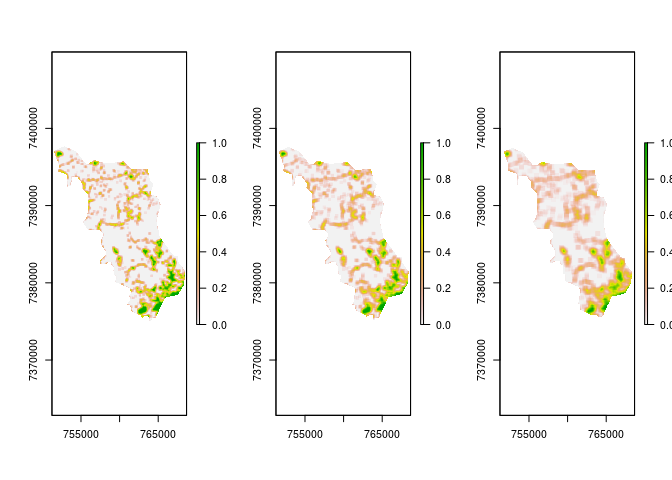
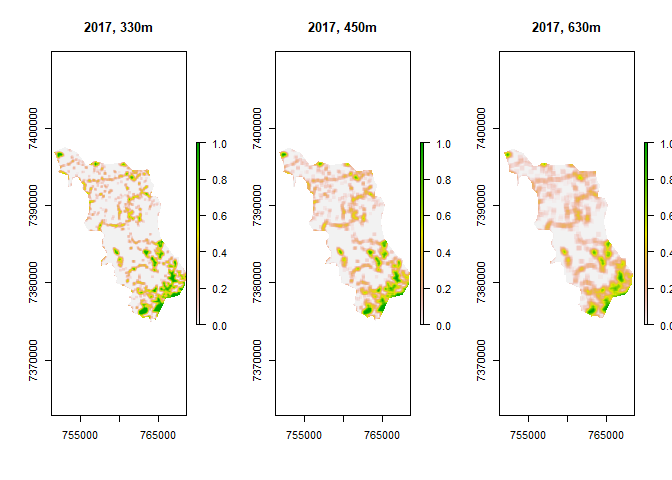
boas praticas

diff --git a/MW_FF_CMA.md b/MW_FF_CMA.md
@@ -33,16 +33,14 @@ require(rgdal)
 ```
 
 ```
-## rgdal: version: 1.5-8, (SVN revision 990)
-## Geospatial Data Abstraction Library extensions to R successfully loaded
-## Loaded GDAL runtime: GDAL 2.2.2, released 2017/09/15
-## Path to GDAL shared files: /usr/share/gdal/2.2
-## GDAL binary built with GEOS: TRUE 
-## Loaded PROJ runtime: Rel. 4.9.2, 08 September 2015, [PJ_VERSION: 492]
-## Path to PROJ shared files: (autodetected)
-## Linking to sp version:1.4-2
-## To mute warnings of possible GDAL/OSR exportToProj4() degradation,
-## use options("rgdal_show_exportToProj4_warnings"="none") before loading rgdal.
+## rgdal: version: 1.4-8, (SVN revision 845)
+##  Geospatial Data Abstraction Library extensions to R successfully loaded
+##  Loaded GDAL runtime: GDAL 2.2.3, released 2017/11/20
+##  Path to GDAL shared files: C:/Users/acmar/Documents/R/win-library/3.6/rgdal/gdal
+##  GDAL binary built with GEOS: TRUE 
+##  Loaded PROJ.4 runtime: Rel. 4.9.3, 15 August 2016, [PJ_VERSION: 493]
+##  Path to PROJ.4 shared files: C:/Users/acmar/Documents/R/win-library/3.6/rgdal/proj
+##  Linking to sp version: 1.3-2
 ```
 
 ```r
@@ -119,23 +117,23 @@ r07[r07 < 3] <- 0
 r07[r07 > 3] <- 0
 r07[r07 == 3] <- 1
 
-m<-matrix(1, nrow=11, ncol=11)
-r07.focal<-focal(r07, m, fun=mean)
+m11<-matrix(1, nrow=11, ncol=11)
+r07.m11.focal<-focal(r07, m11, fun=mean)
 
-m1<-matrix(1, nrow=15, ncol=15)
-r07m1.focal<-focal(r07, m1, fun=mean)
+m15<-matrix(1, nrow=15, ncol=15)
+r07.m15.focal<-focal(r07, m15, fun=mean)
 
-m2<-matrix(1, nrow=21, ncol=21)
-r07m2.focal<-focal(r07, m2, fun=mean)
+m21<-matrix(1, nrow=21, ncol=21)
+r07.m21.focal<-focal(r07, m21, fun=mean)
 ```
 
 Plota o MW para 2007
 
 ```r
 par(mfrow=c(1,3))
-plot(r07.focal)
-plot(r07m1.focal)
-plot(r07m2.focal)
+plot(r07.m11.focal, main="2007, 330m")
+plot(r07.m15.focal, main="2007, 450m")
+plot(r07.m21.focal, main="2007, 630m")
 ```
 
 <img src="MW_FF_CMA_files/figure-html/unnamed-chunk-3-1.png" style="display: block; margin: auto;" />
@@ -153,23 +151,23 @@ r17[r17 < 3] <- 0
 r17[r17 > 3] <- 0
 r17[r17 == 3] <- 1
 
-m<-matrix(1, nrow=11, ncol=11)
-r17.focal<-focal(r17, m, fun=mean)
+m11<-matrix(1, nrow=11, ncol=11)
+r17.m11.focal<-focal(r17, m11, fun=mean)
 
-m1<-matrix(1, nrow=15, ncol=15)
-r17m1.focal<-focal(r17, m1, fun=mean)
+m15<-matrix(1, nrow=15, ncol=15)
+r17.m15.focal<-focal(r17, m15, fun=mean)
 
-m2<-matrix(1, nrow=21, ncol=21)
-r17m2.focal<-focal(r17, m2, fun=mean)
+m21<-matrix(1, nrow=21, ncol=21)
+r17.m21.focal<-focal(r17, m21, fun=mean)
 ```
 
 Plota o MW para 2017
 
 ```r
 par(mfrow=c(1,3))
-plot(r17.focal)
-plot(r17m1.focal)
-plot(r17m2.focal)
+plot(r17.m11.focal, main="2017, 330m")
+plot(r17.m15.focal, main="2017, 450m")
+plot(r17.m21.focal, main="2017, 630m")
 ```
 
 <img src="MW_FF_CMA_files/figure-html/unnamed-chunk-5-1.png" style="display: block; margin: auto;" />
@@ -181,9 +179,6 @@ plot(r17m2.focal)
 #Eh legal colocar as florestas em preto, mas nessa escala não tah dando para ver onde ficam os "potenciais corredores". Se aumentar o tamanho da window no MW tvz de para ver.
 ```
 
-
-
-# Tvz testar mais alguns tamanhos de janela? 
 
 # Tvz criar um novo script com as coisas daqui para baixo?
 
@@ -199,7 +194,7 @@ CMA_all<-readOGR(dsn="./data_use",layer="SP_3509452_APP_USO")
 
 ```
 ## OGR data source with driver: ESRI Shapefile 
-## Source: "/cloud/project/data_use", layer: "SP_3509452_APP_USO"
+## Source: "G:\My Drive\UFSCar\Projetos\teste\APPs_ALPA\data_use", layer: "SP_3509452_APP_USO"
 ## with 5 features
 ## It has 6 fields
 ```
@@ -209,12 +204,18 @@ CMA_all@data
 ```
 
 ```
-##   GEOCODIGO               MUNICIPIO UF CD_UF             CLASSE_USO    AREA_HA
-## 0   3509452 CAMPINA DO MONTE ALEGRE SP    35       área antropizada 14063.5000
-## 1   3509452 CAMPINA DO MONTE ALEGRE SP    35         área edificada   106.2360
-## 2   3509452 CAMPINA DO MONTE ALEGRE SP    35     formação florestal  2078.7000
-## 3   3509452 CAMPINA DO MONTE ALEGRE SP    35 formação não florestal    73.8172
-## 4   3509452 CAMPINA DO MONTE ALEGRE SP    35           silvicultura  1925.9400
+##   GEOCODIGO               MUNICIPIO UF CD_UF                CLASSE_USO
+## 0   3509452 CAMPINA DO MONTE ALEGRE SP    35         Ã¡rea antropizada
+## 1   3509452 CAMPINA DO MONTE ALEGRE SP    35           Ã¡rea edificada
+## 2   3509452 CAMPINA DO MONTE ALEGRE SP    35      formaÃ§Ã£o florestal
+## 3   3509452 CAMPINA DO MONTE ALEGRE SP    35 formaÃ§Ã£o nÃ£o florestal
+## 4   3509452 CAMPINA DO MONTE ALEGRE SP    35              silvicultura
+##      AREA_HA
+## 0 14063.5000
+## 1   106.2360
+## 2  2078.7000
+## 3    73.8172
+## 4  1925.9400
 ```
 
 Cálculo APP
